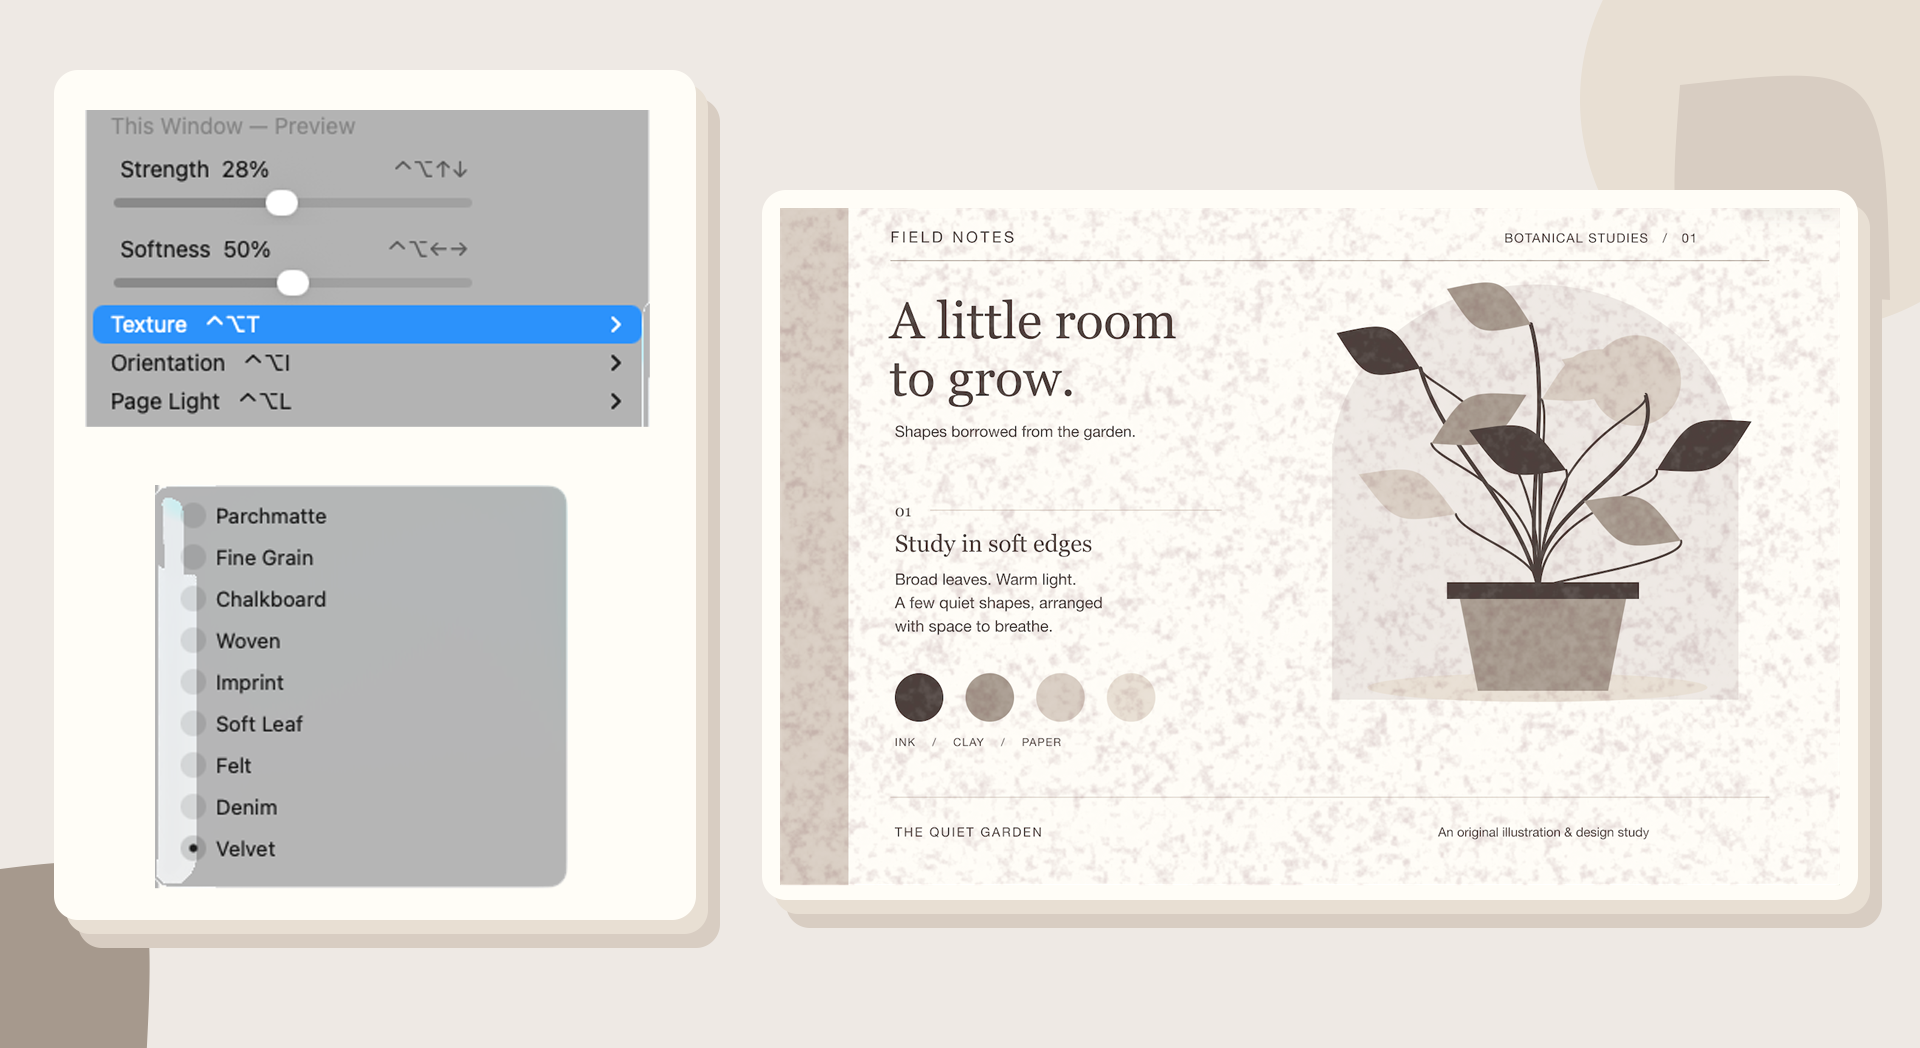
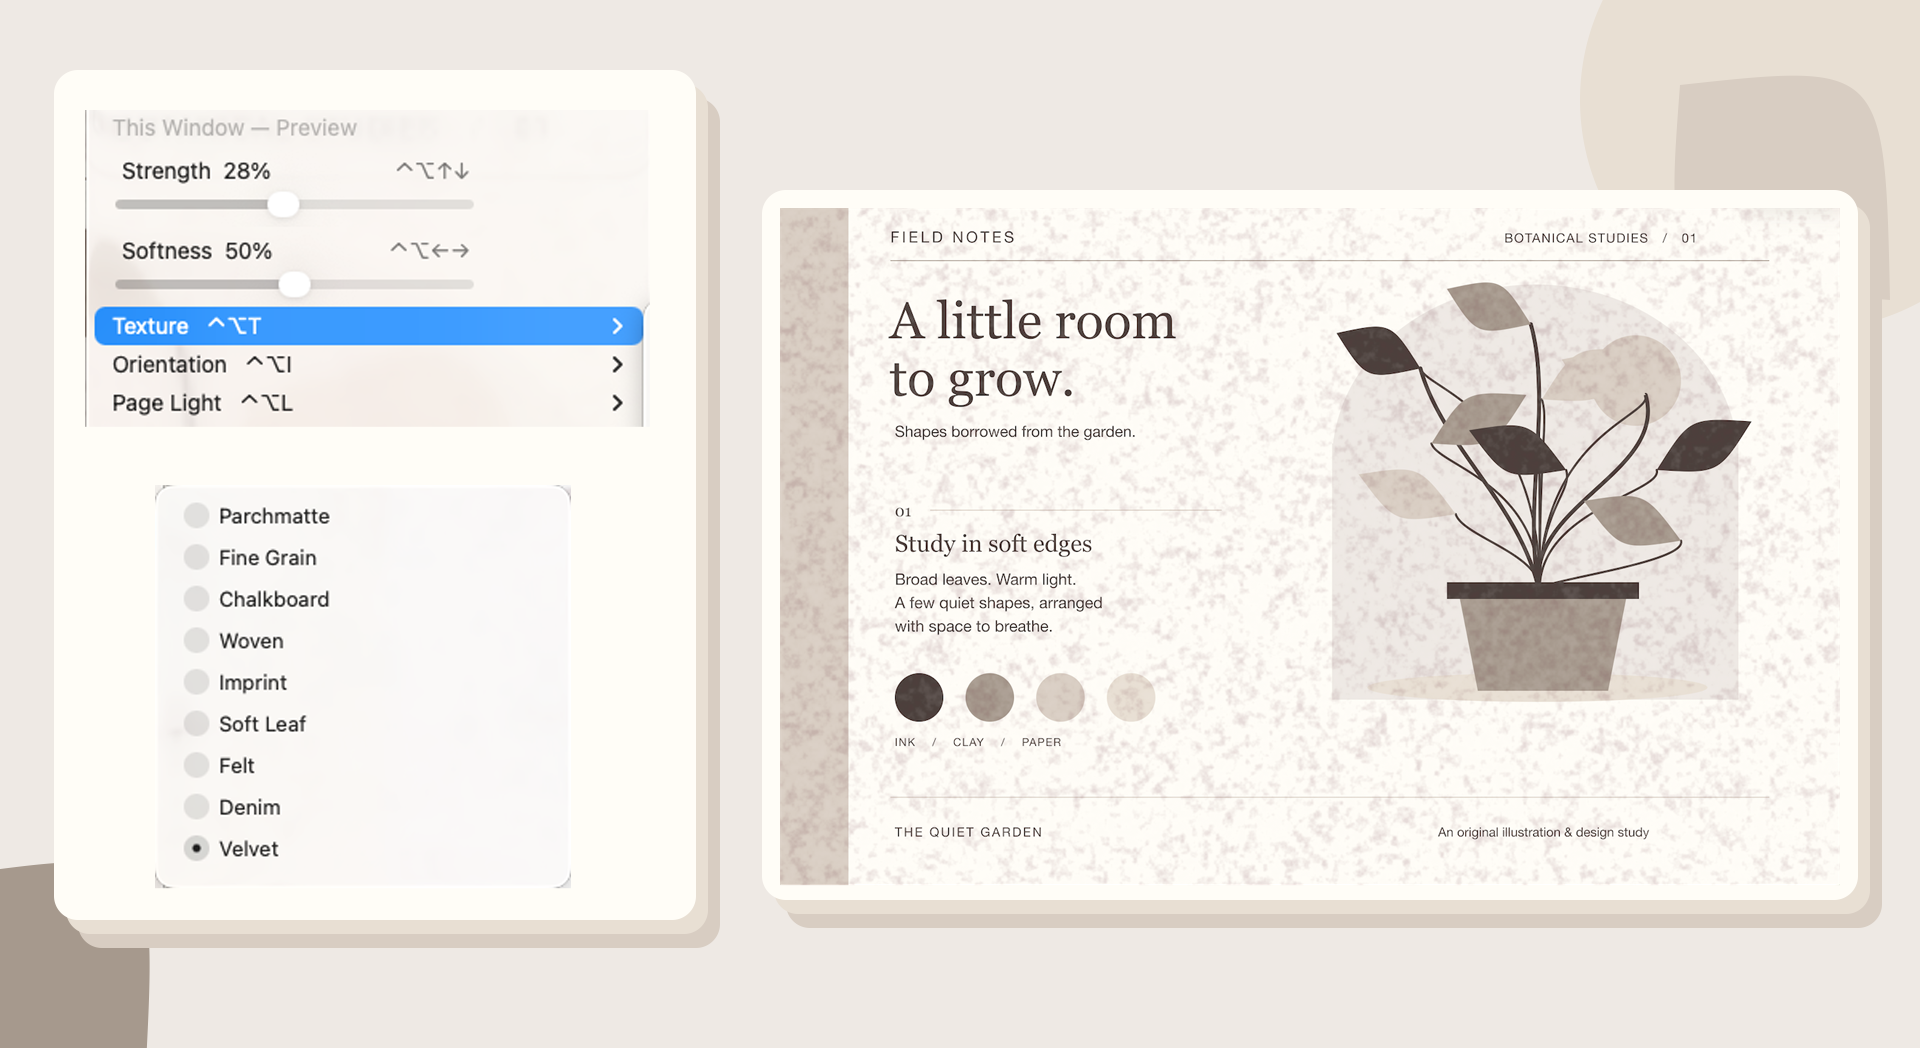
fix: replace affected native menu captures
Repair two screenshot compositions while preserving the botanical design and 1.2.1 version declarations.

Refs #84

Changed region(s): [[0.0312, 0.0916, 0.3438, 0.4275], [0.0625, 0.458, 0.3125, 0.855]]

diff --git a/docs/homepage-media.md b/docs/homepage-media.md
@@ -15,9 +15,15 @@ settings are recorded in [homepage-media.json](homepage-media.json).
 | `08-denim-terminal.png` | Retained Denim terminal example |
 
 The four new exports use lossless RGB8 PNG. Ancillary density metadata was
-removed; image headers and compressed pixel chunks remain byte-identical. Native menu details are presented
-as separate panels rather than a continuous fabricated menu. Texture and
-controls are not enhanced or invented. All screenshots link to full-size
+removed; image headers and compressed pixel chunks remain byte-identical.
+Native menu details are presented as separate panels rather than a continuous
+fabricated menu. The two menu compositions use corrected native captures from
+the same qualified
+1.2.1 (28) executable. Editable silhouette masks exclude only pixels outside
+the actual menu windows and their outside shadows; native interior control
+pixels remain unchanged. This is a media repair, with no new build
+qualification claimed. Texture and controls are not enhanced or invented.
+All screenshots link to full-size
 images; the wide menu details require that view to read fine labels on a
 narrow screen.
 
